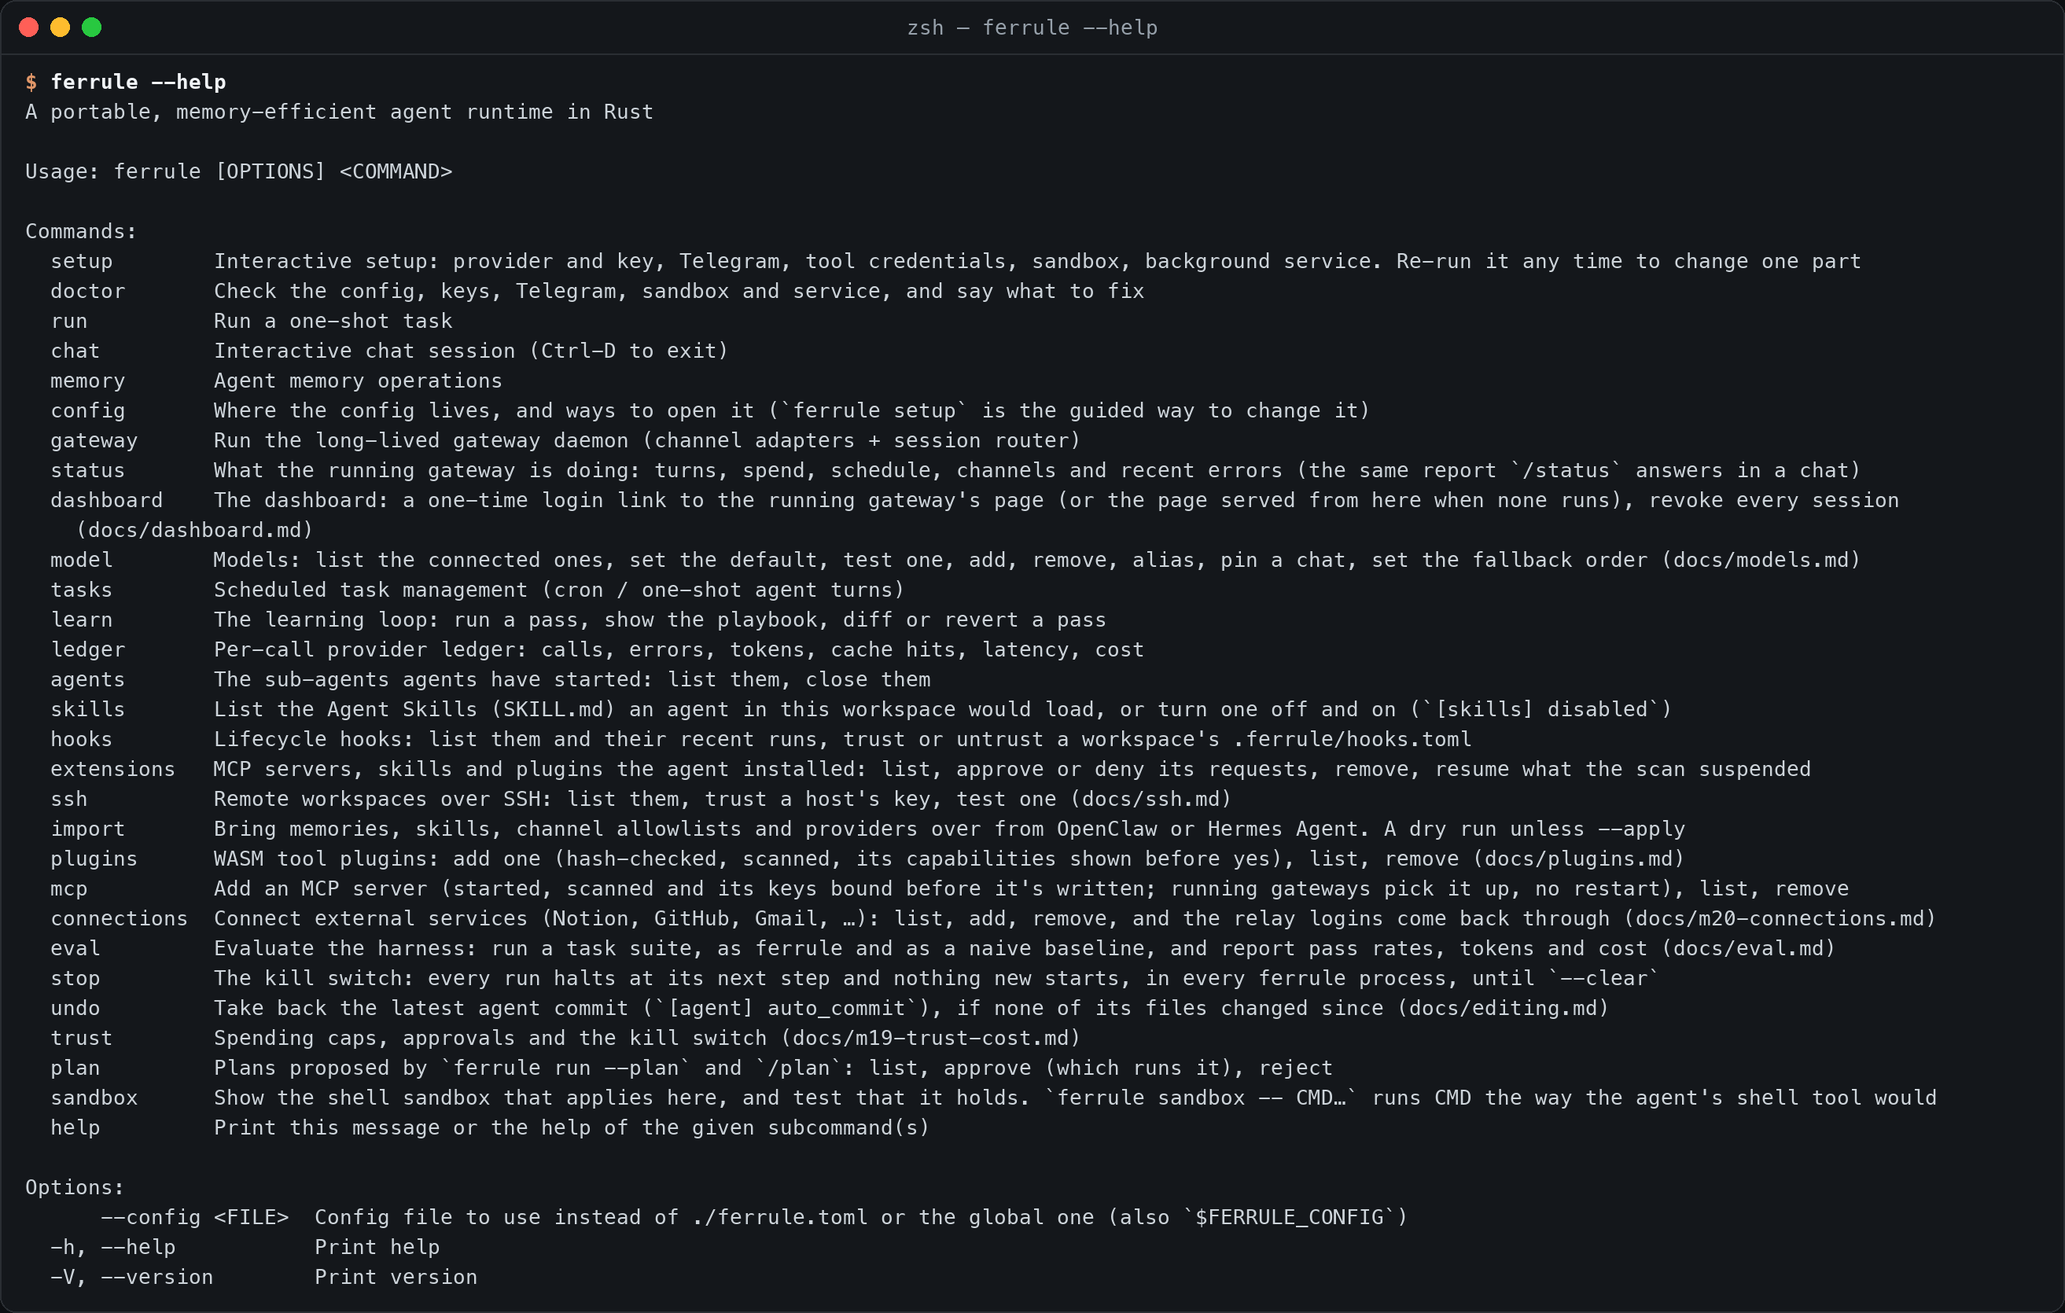
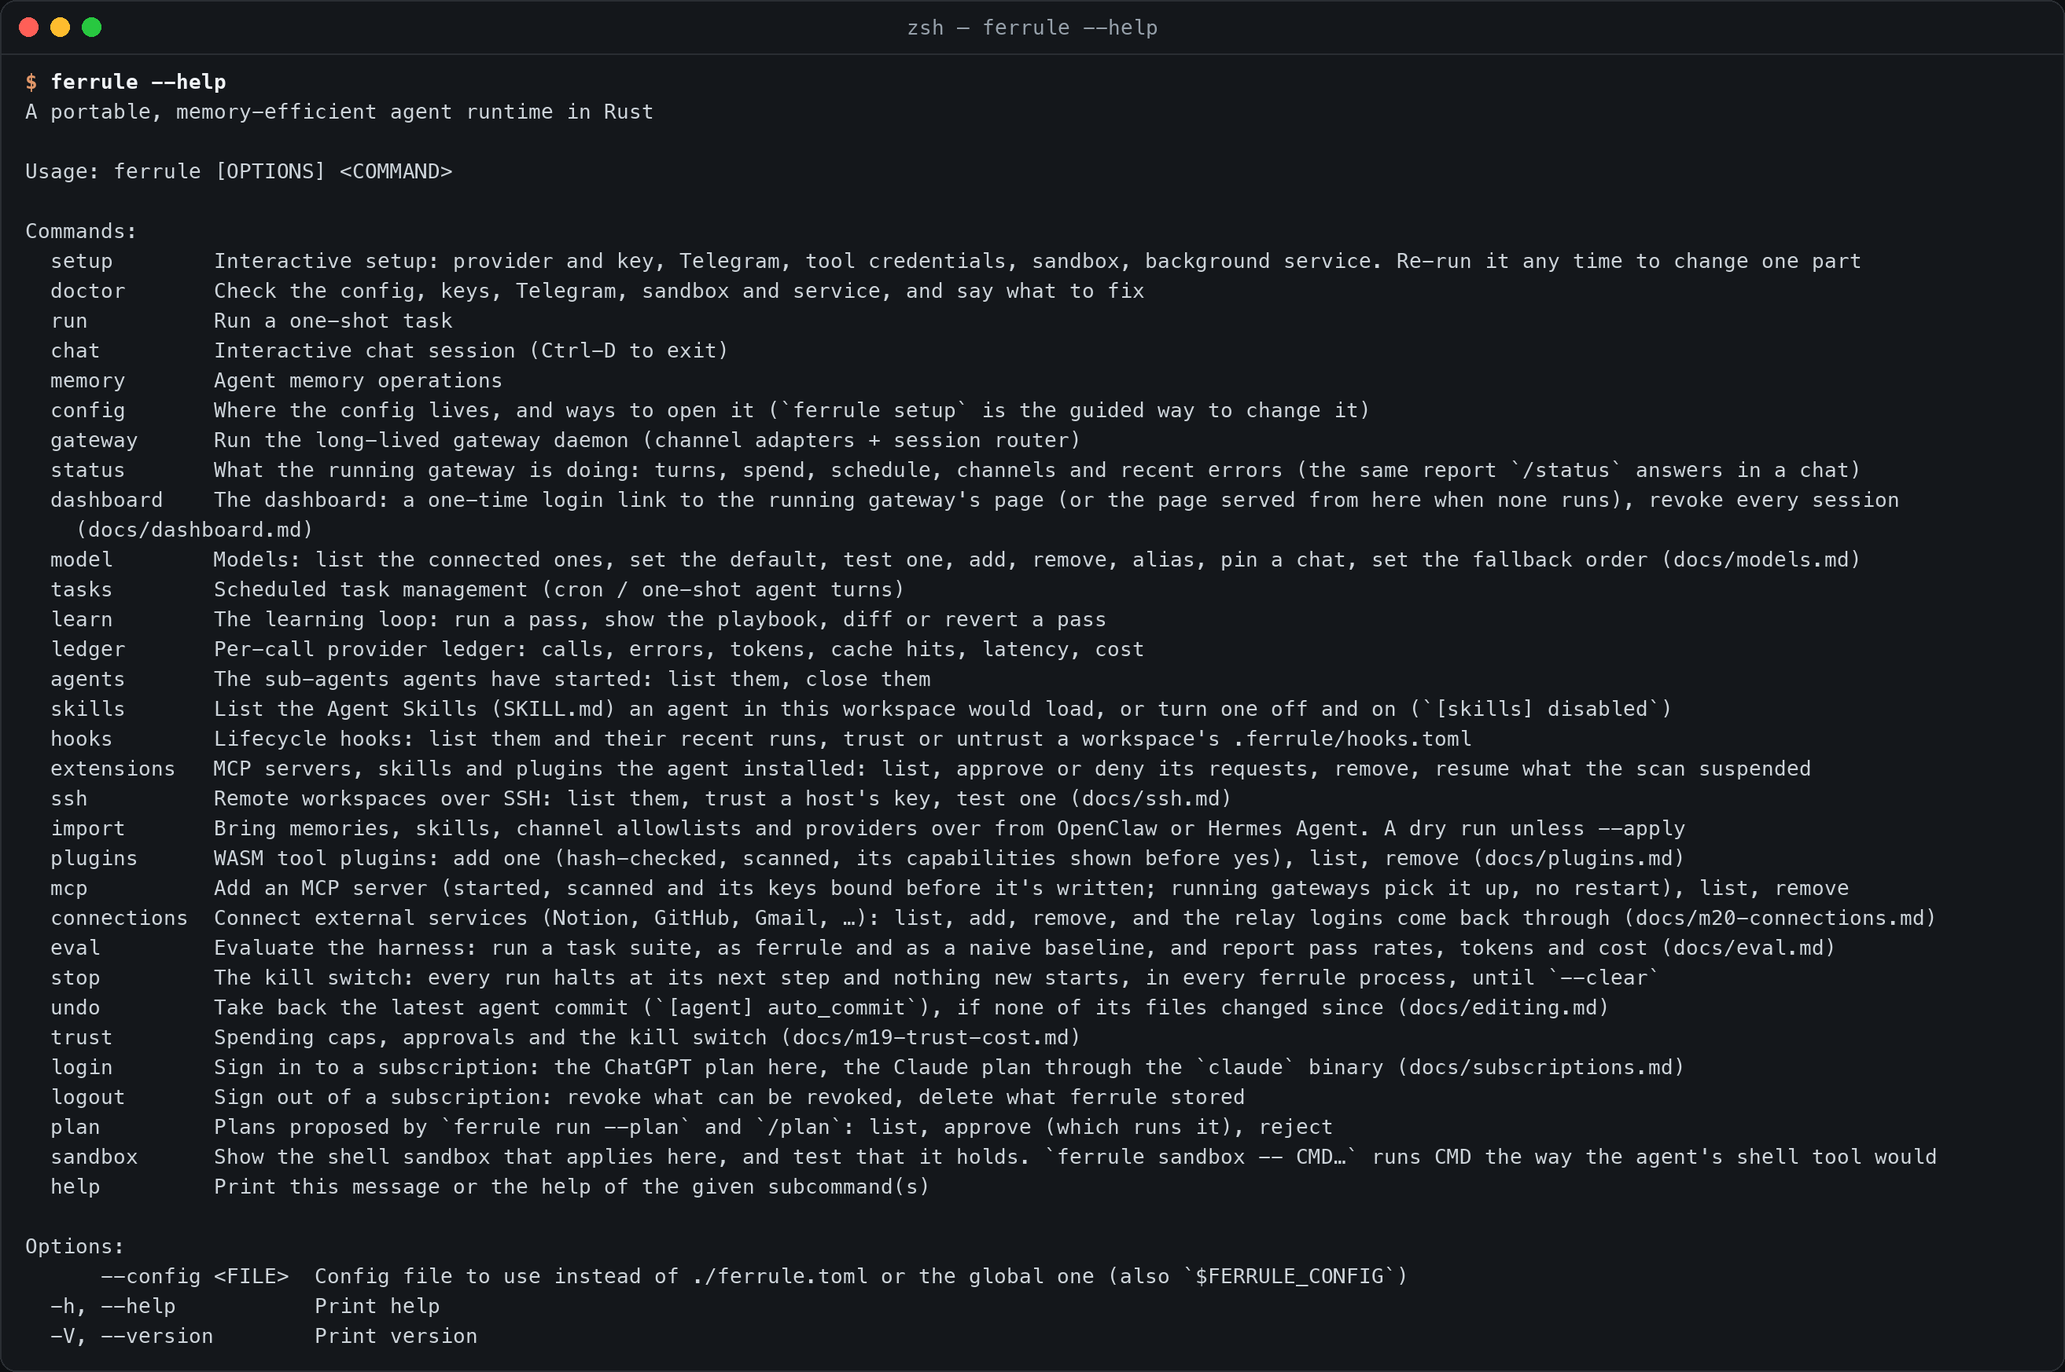
README: rebuilt for clarity — What is ferrule / Why ferrule opening, organized Documentation index, stale captures refreshed from the v0.5.2 binary

diff --git a/README.md b/README.md
@@ -18,48 +18,50 @@
 <p align="center">
   <a href="#60-seconds-to-your-first-agent-run">60-second start</a> ·
   <a href="#why-ferrule-wins">Why ferrule wins</a> ·
+  <a href="#ferrule-vs-the-field">vs the field</a> ·
   <a href="#secure-by-default">Secure by default</a> ·
   <a href="#install">Install</a> ·
-  <a href="#configuration">Configuration</a> ·
-  <a href="#credential-gateway">Credential gateway</a> ·
-  <a href="#ferrule-vs-the-field">vs the field</a> ·
+  <a href="#documentation">Documentation</a> ·
   <a href="PLAN.md">PLAN.md</a>
 </p>
 
 ---
 
-## The pitch
+## What is ferrule?
 
-Ferrule runs a coding and operations agent against any model — API keys,
-a ChatGPT or Claude plan, or a local Ollama — from the terminal, Telegram,
-Discord, Slack, a cron schedule, or its own web dashboard. It's one
-binary (a download of about 10 MB, about 30 MB unpacked) with nothing to install beside it (the Linux builds
-are fully static): `ferrule --version` starts in about 4 ms, and the idle
-gateway daemon uses about 9 MB of RAM. All state lives in files you can
-read: SQLite for memory and tasks, JSONL for transcripts and the cost
-ledger.
+Ferrule is an AI agent that runs on your machine, on your terms. Give it a
+model — an API key, a ChatGPT or Claude plan you already pay for, or a
+local Ollama — and it works where you are: the terminal, Telegram, Discord
+and Slack, a cron schedule, or its own web dashboard. It can edit code,
+run commands, browse and search the web, drive your installed Chrome, work
+in a directory on another machine over SSH, connect Jira, Gmail, Notion
+and friends, and split big jobs across sub-agents — inside an OS sandbox,
+and without your API tokens ever reaching the commands it runs.
 
-Three reasons to pick ferrule over a for-loop around an API call:
+It's one Rust binary, a ~10 MB download with nothing to install beside it
+(the Linux builds are fully static): `ferrule --version` starts in about
+4 ms and the idle gateway daemon uses about 9 MB of RAM. Everything it
+remembers or spends lives in files you can read — SQLite for memory and
+tasks, JSONL for transcripts and the cost ledger.
 
-1. **The harness is the performance lever — ferrule is the harness.** In
-   OpenAI's 2026 ARC-AGI-3 runs, the *same* model scored 13.3% with a
-   default harness and 38.3% with an engineered one, on ~6× fewer output
-   tokens. Ferrule is built around that result: per-model harness profiles,
-   structured compaction, a verifier that won't let the agent stop early,
-   and a loop that never gets stuck. [The evidence.](#why-ferrule-wins)
-2. **Safe by default, not by configuration.** Every shell command the
-   agent runs sits inside an OS sandbox, and API tokens reach commands only
-   as same-shaped placeholders — a local proxy swaps in the real value on
-   the wire, only for the hosts you allow. [The layers.](#secure-by-default)
-3. **The easiest runtime to actually run.** One-line install, a setup
-   wizard that tests your keys live and offers the models they can use, and
-   `ferrule doctor` to re-check everything later and say what to fix.
-   [See for yourself.](#60-seconds-to-your-first-agent-run)
+## Why ferrule
+
+- **Better answers from the same model.** The runtime wrapped around a
+  model measurably changes how well it does — ferrule's is engineered, and
+  the benchmark ships in the repo: +10 points on our own task suite against
+  a naive loop driving the same model. [The numbers.](#why-ferrule-wins)
+- **Safe by default.** Every command the agent runs is sandboxed, and API
+  tokens reach commands only as same-shaped placeholders — a local proxy
+  swaps in the real value on the wire, only for the hosts you allow.
+  [The layers.](#secure-by-default)
+- **Easy to run.** One line installs it, a setup wizard signs you in and
+  tests everything live, and `ferrule doctor` re-checks it all later and
+  says what to fix. [See for yourself.](#60-seconds-to-your-first-agent-run)
 
 ## 60 seconds to your first agent run
 
 <p align="center">
-  <img src="docs/assets/quickstart-flow.svg" alt="Quick start: one-line install, the ferrule setup wizard, then chat in the terminal, Telegram or cron; ferrule doctor checks it all" width="860">
+  <img src="docs/assets/quickstart-flow.svg" alt="Quick start: one-line install, the ferrule setup wizard, then chat in the terminal, Telegram, Discord or Slack, or cron tasks; ferrule doctor checks it all" width="860">
 </p>
 
 ```bash
@@ -70,24 +72,24 @@ ferrule run "list the files here and summarise the project"
 
 On Windows it's `irm … install.ps1 | iex`.
 
-And this is what you get: real output, unedited (macOS build; on Linux the
-sandbox rows read Landlock + seccomp instead of Seatbelt). Here the
-provider is a local model, so no cloud key was involved:
+And this is what you get — real output, unedited, from the macOS build (on
+Linux the sandbox rows read Landlock + seccomp instead of Seatbelt); the
+provider here is a local model, so no cloud key was involved:
 
 <table align="center">
   <tr>
-    <td><img src="docs/assets/term-doctor.png" alt="ferrule doctor: config, keys, provider, sandbox, mcp, proxy, binary — all checks green, 'All good.'" width="440"></td>
-    <td><img src="docs/assets/term-sandbox.png" alt="ferrule sandbox: seatbelt backend, workspace-write mode, secret env vars withheld, GITHUB_TOKEN bound to its hosts through the proxy, every check ok" width="560"></td>
+    <td><img src="docs/assets/term-doctor.png" alt="ferrule doctor: config, keys, provider, channels, sandbox, mcp, proxy, egress, trust, editing, binary and browser checks — one warning with its fix, nothing broken" width="440"></td>
+    <td><img src="docs/assets/term-sandbox.png" alt="ferrule sandbox: seatbelt backend, workspace-write mode, secret env vars withheld, ferrule's own keys unreadable, GITHUB_TOKEN bound to its hosts through the proxy, every check ok" width="560"></td>
   </tr>
 </table>
 
-`ferrule doctor` checks the config, the saved keys' file permissions, the
-provider key **live**, Telegram, the sandbox, the credential-proxy path,
-MCP servers, an installed Chrome and the background service — and each red
-line comes with the exact fix. `ferrule sandbox` doesn't just print the
-policy, it runs the promises: write inside the workspace works, write
-outside is refused, the saved keys are unreadable, secret env vars are
-withheld.
+`ferrule doctor` checks the config, the saved keys' file permissions, every
+connected model **live**, the channels, the sandbox, the credential-proxy
+and egress path, MCP servers, sub-agent limits, spend caps, an installed
+Chrome and the background service — and anything that needs it comes with
+the exact fix. `ferrule sandbox` doesn't just print the policy, it runs
+the promises: write inside the workspace works, write outside is refused,
+the saved keys are unreadable, secret env vars are withheld.
 
 ## Why ferrule wins
 
@@ -110,7 +112,7 @@ engineered one, on ~6× fewer output tokens. Ferrule is that engineered
 harness, for every model it drives:
 
 <p align="center">
-  <img src="docs/assets/why-ferrule-wins.svg" alt="A for-loop around an API call versus the ferrule harness: per-model profiles, structured compaction, verify_command, never-stuck recovery, per-call ledger" width="860">
+  <img src="docs/assets/why-ferrule-wins.svg" alt="A do-it-yourself agent loop versus the ferrule harness: per-model profiles, structured compaction, verify_command, never-stuck recovery, per-call ledger" width="860">
 </p>
 
 - **A harness profile per model.** Context window, when to compact (at
@@ -262,15 +264,6 @@ installs it and starts `ferrule setup`. Nothing to export, no file to edit.
 Run it again to upgrade: your settings stay, and on Linux and macOS a
 running background service is restarted on the new binary.
 
-**Running 0.1.0 as a Telegram bot? Upgrade.** 0.1.0 can go silently deaf:
-a dropped long-poll connection hangs forever while the process looks alive.
-0.2.0 fixes that, and adds `/status` and `/stop` that answer even in the
-middle of a turn, a watchdog message when a turn stops making progress, a
-systemd watchdog for a wedged process and an optional outbound heartbeat
-([`docs/m19b-reliability.md`](docs/m19b-reliability.md)). After the
-upgrade, `ferrule doctor` tells you if your service unit predates the
-watchdog and how to rewrite it.
-
 | | Installs to | Prebuilt for |
 |---|---|---|
 | Linux | `~/.local/bin/ferrule` | x86-64, arm64 (static, any distro) |
@@ -371,7 +364,7 @@ ferrule's own data directory.
 The full command surface, from the binary itself:
 
 <p align="center">
-  <img src="docs/assets/term-help.png" alt="ferrule --help: setup, doctor, run, chat, memory, config, gateway, tasks, ledger, skills, sandbox" width="820">
+  <img src="docs/assets/term-help.png" alt="ferrule --help: setup, doctor, run, chat, model, tasks, dashboard, eval, plugins, mcp, ssh, import, login, sandbox and more" width="820">
 </p>
 
 | | Linux | macOS | Windows |
@@ -615,35 +608,66 @@ and keep `cargo clippy --workspace --all-targets` clean.
 [`PLAN.md`](PLAN.md) is the shared working log: current state, open gaps
 and a dated entry for every session.
 
+## Documentation
 
-## Docs
+**Getting started**
+
+- Install, the setup wizard, Windows notes and `ferrule doctor` are in
+  this README: [Install](#install) · [Setup](#setup) ·
+  [Windows](#windows).
+- [`docs/subscriptions.md`](docs/subscriptions.md) — run on a ChatGPT or
+  Claude plan you already pay for, no API key.
+- [`docs/local-models.md`](docs/local-models.md) — run on Ollama,
+  llama.cpp, LM Studio or vLLM, with the context-window pitfalls handled.
+- [`docs/migrate.md`](docs/migrate.md) — move over from OpenClaw or Hermes
+  (`ferrule import`, a dry run until `--apply`).
+
+**Guides**
+
+- Models: [`models.md`](docs/models.md) (several at once, `/model`,
+  fallback) · [`routing.md`](docs/routing.md) (cheap-first escalation) ·
+  [`speed.md`](docs/speed.md) (streaming, parallel reads, prompt-cache
+  discipline).
+- The agent's reach: [`skills.md`](docs/skills.md) (Agent Skills, keyword
+  triggers) · [`plugins.md`](docs/plugins.md) (WASM, capability-gated) ·
+  [`m17-mcp-add.md`](docs/m17-mcp-add.md) (add an MCP server without a
+  restart) · [`m13-self-extension.md`](docs/m13-self-extension.md) (the
+  agent installing vetted extensions itself) ·
+  [`browser.md`](docs/browser.md) · [`web-search.md`](docs/web-search.md) ·
+  [`m20-connections.md`](docs/m20-connections.md) (Jira, Gmail, Notion…) ·
+  [`ssh.md`](docs/ssh.md) (workspaces on other machines).
+- How it works on your code: [`editing.md`](docs/editing.md)
+  (search/replace edits, repo map, lint, auto-commit with undo) ·
+  [`memory.md`](docs/memory.md) · [`agents.md`](docs/agents.md)
+  (sub-agents) · [`eval.md`](docs/eval.md) (benchmark harness changes
+  yourself) · [`m16-learning-loop.md`](docs/m16-learning-loop.md) (failed
+  runs become playbook lessons).
+- Running it day to day: [`dashboard.md`](docs/dashboard.md) ·
+  [`discord.md`](docs/discord.md) · [`slack.md`](docs/slack.md) ·
+  [`m18-hooks.md`](docs/m18-hooks.md) ·
+  [`m19-trust-cost.md`](docs/m19-trust-cost.md) (caps, approvals, kill
+  switch, plan mode) · [`m19b-reliability.md`](docs/m19b-reliability.md)
+  and [`m19c-live-fixes.md`](docs/m19c-live-fixes.md) (never silently
+  deaf).
+- Security and ops: [`sandbox.md`](docs/sandbox.md) ·
+  [`windows-sandbox.md`](docs/windows-sandbox.md) ·
+  [`egress.md`](docs/egress.md) · [`otel.md`](docs/otel.md).
+
+**Design and research**
 
 - [`docs/research-report.md`](docs/research-report.md): why the harness
-  matters, and the design behind Ferrule
-- [`docs/research-routing-and-local-models.md`](docs/research-routing-and-local-models.md):
-  multi-provider routing and local fine-tuning, phases and open decisions
-- [`docs/research-credential-gateway.md`](docs/research-credential-gateway.md):
-  the credential gateway's design, threat model and limits
-- [`docs/research-autonomy-and-self-extension.md`](docs/research-autonomy-and-self-extension.md):
-  never stuck, the browser, self-extension and speed
-- [`docs/research-deployment-and-isolation.md`](docs/research-deployment-and-isolation.md):
-  deployment shapes and isolation, from a process to a container
-- [`docs/research-windows-sandbox.md`](docs/research-windows-sandbox.md):
-  a native Windows sandbox, tiered by what needs admin
-- Milestone docs: [`agents.md`](docs/agents.md) (sub-agents),
-  [`browser.md`](docs/browser.md), [`eval.md`](docs/eval.md),
-  [`m13-self-extension.md`](docs/m13-self-extension.md),
-  [`m15-memory.md`](docs/m15-memory.md),
-  [`m16-learning-loop.md`](docs/m16-learning-loop.md),
-  [`m17-mcp-add.md`](docs/m17-mcp-add.md), [`m18-hooks.md`](docs/m18-hooks.md),
-  [`m19-trust-cost.md`](docs/m19-trust-cost.md),
-  [`m19b-reliability.md`](docs/m19b-reliability.md),
-  [`m20-connections.md`](docs/m20-connections.md),
-  [`models.md`](docs/models.md) and [`m21-models.md`](docs/m21-models.md)
-- [`docs/ssh.md`](docs/ssh.md), [`docs/local-models.md`](docs/local-models.md):
-  SSH workspaces, and running on a local model
-- [`docs/egress.md`](docs/egress.md), [`docs/otel.md`](docs/otel.md),
-  [`docs/migrate.md`](docs/migrate.md): the egress policy, OpenTelemetry
-  export, and importing from OpenClaw or Hermes
-- [`docs/roadmap.md`](docs/roadmap.md): every milestone's design and status
-- [`PLAN.md`](PLAN.md): current state and session log
+  matters, and the design behind ferrule.
+- [`docs/research-number-one-harness-strategy.md`](docs/research-number-one-harness-strategy.md):
+  the competitor analysis behind the roadmap.
+- [`docs/research-credential-gateway.md`](docs/research-credential-gateway.md),
+  [`docs/research-autonomy-and-self-extension.md`](docs/research-autonomy-and-self-extension.md),
+  [`docs/research-deployment-and-isolation.md`](docs/research-deployment-and-isolation.md),
+  [`docs/research-routing-and-local-models.md`](docs/research-routing-and-local-models.md),
+  [`docs/research-windows-sandbox.md`](docs/research-windows-sandbox.md):
+  the credential gateway, autonomy, isolation, routing and Windows-sandbox
+  investigations.
+- [`docs/roadmap.md`](docs/roadmap.md): every milestone's design and
+  status. The per-milestone design notes live next to it
+  (`docs/m12-multi-agent.md` … `docs/m35-subscriptions.md`).
+- [`PLAN.md`](PLAN.md): the shared working log — current state, open gaps
+  and a dated entry for every session.

diff --git a/PLAN.md b/PLAN.md
@@ -4638,3 +4638,47 @@ same model), and the `ferrule import openclaw|hermes` line. The pitch now
 names the current surfaces (Telegram/Discord/Slack/dashboard, plans and
 local models). The three term-*.png captures regenerated earlier today
 against the current binary land in the same commit.
+
+### 2026-09-27 — README rebuilt for clarity (Kimi Code)
+
+Owner feedback on the v0.5.2 README: the "pitch" title was irrelevant, and
+parts were irrelevant or not understandable. Rebuilt the file top to
+bottom; the working tree was clean at `6f38497` and nothing was committed
+by me.
+
+- **Opening.** `## The pitch` is gone. `## What is ferrule?` describes the
+  product in plain language for a newcomer (surfaces, capabilities, the
+  footprint numbers), and `## Why ferrule` is three one-line strengths with
+  links to their sections: better answers from the same model (+10 pts on
+  the in-repo A/B), safe by default, easy to run. The "for-loop around an
+  API call" phrase is gone from text, alt texts and the
+  `why-ferrule-wins.svg` panel (now "The do-it-yourself loop — one API
+  call, repeated until the model stops").
+- **Cut.** The "Running 0.1.0 as a Telegram bot? Upgrade." notice in
+  Install (stale at v0.5.2; the substance lives in m19b-reliability.md).
+- **Fixed as stale.** `term-doctor.png`/`term-help.png` regenerated from
+  the v0.5.2 binary (the old ones still said v0.3.0 and predated
+  `login`/`logout`); `term-sandbox.png` was content-identical (only the
+  ephemeral proxy port differs) and is kept byte-for-byte. Same scratch
+  HOME + mock `/v1/models` + Pillow pipeline; the doctor run is all-green
+  but for the honest no-prices warning. `architecture.svg` captions:
+  Channels now read Telegram · Discord · Slack · local, the sandbox row
+  names the Windows restricted token, Providers says 3 drivers /
+  cheap-first routing. `quickstart-flow.svg`: wizard step mentions plan
+  sign-in, the channel card covers Discord/Slack. Alt texts for the three
+  terminal captures rewritten to match their real content (the old doctor
+  alt still described the M10 board).
+- **Documentation section.** The loose Docs list is now an index:
+  Getting started (README anchors + subscriptions, local-models, migrate),
+  Guides (models/routing/speed; skills/plugins/MCP/self-extension/browser/
+  web-search/connections/ssh; editing/memory/agents/eval/learning loop;
+  dashboard/discord/slack/hooks/trust&cost/reliability; sandbox/windows/
+  egress/otel), Design & research (all 7 research docs, roadmap.md, the
+  m12–m35 milestone notes, PLAN.md). Every entry exists on disk.
+- Verified: all 11 images resolve, all 58 doc/PLAN links resolve, all
+  anchors match headers (`#documentation` added to the nav), every quoted
+  `ferrule` command and subcommand form (`model …`, `tasks add --model`,
+  `login chatgpt`, `import openclaw`, `eval run`, …) exists in the v0.5.2
+  binary (`target/debug/ferrule`), all SVGs parse as XML, and the file was
+  re-read end to end. Windows-sandbox wording stays accurate (restricted
+  token + job object, Git Bash caveat).
